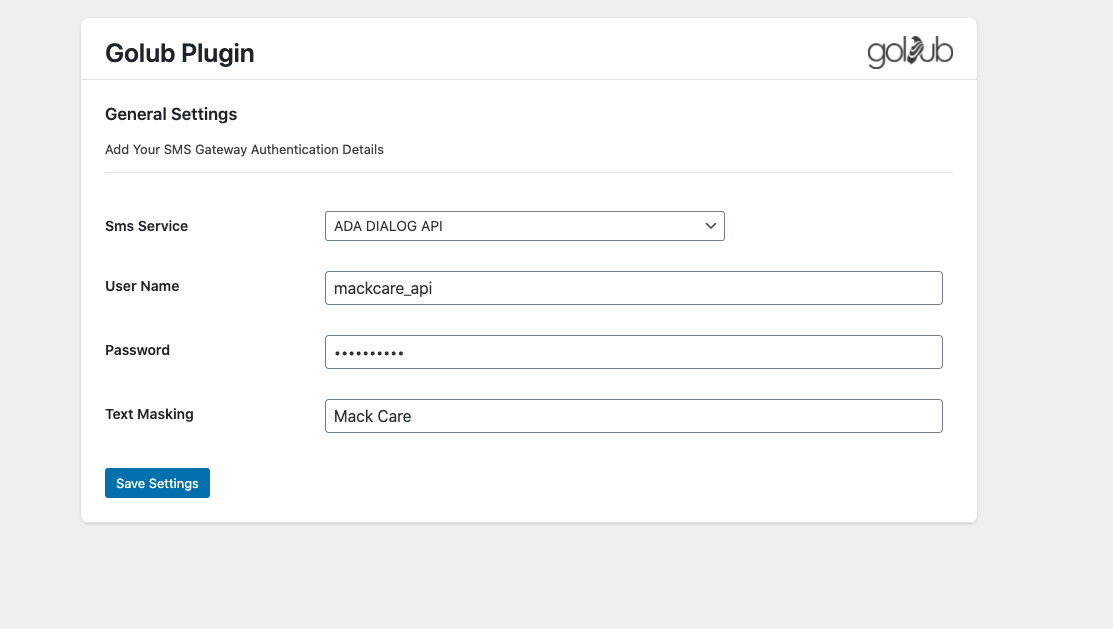
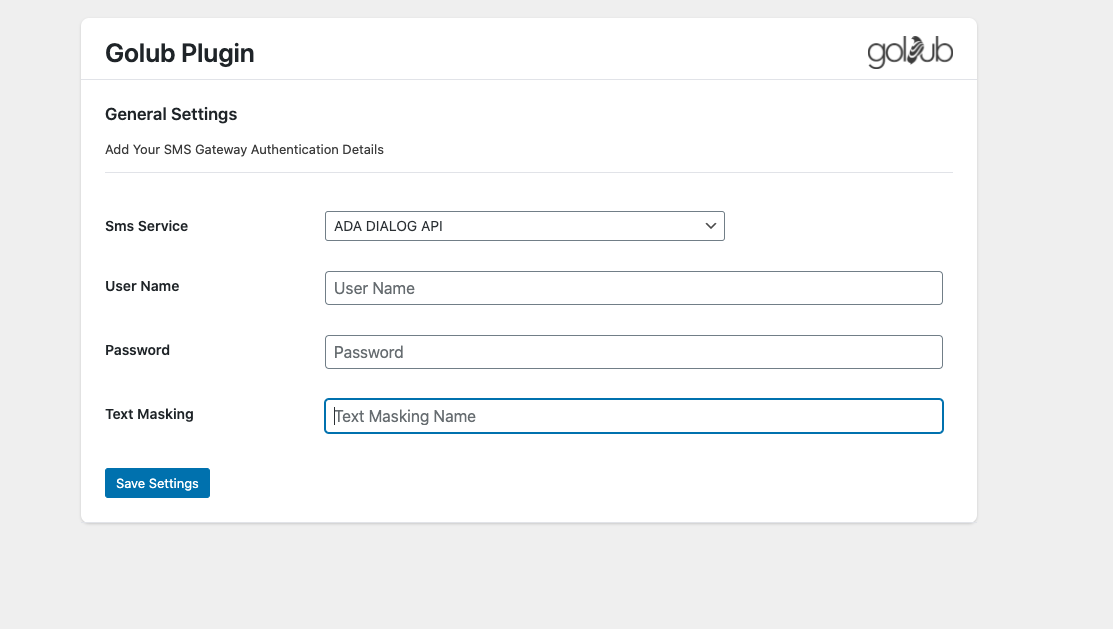
Removed unwanted and add password to placehoder

Changed region(s): [[0.2749, 0.6343, 0.8553, 0.6948], [0.3055, 0.4531, 0.3971, 0.4833], [0.3055, 0.5437, 0.3666, 0.5739]]

diff --git a/inc/class.golub-initialize.php b/inc/class.golub-initialize.php
@@ -113,7 +113,7 @@ class GolubInitialize
     public function golubOptionUserPassword($args)
     {
         $options = get_option('golub_api_options_sms_user_password'); ?>
-        <input style="width: 100%"  id="<?php echo esc_attr($args['label_for']); ?>" name="golub_api_options_sms_user_password" value="<?php echo isset($options)? $options : '' ?>" type="password" class="form-input" placeholder="User Name" maxlength="255">
+        <input style="width: 100%"  id="<?php echo esc_attr($args['label_for']); ?>" name="golub_api_options_sms_user_password" value="<?php echo isset($options)? $options : '' ?>" type="password" class="form-input" placeholder="Password" maxlength="255">
         <?php
     }
 
